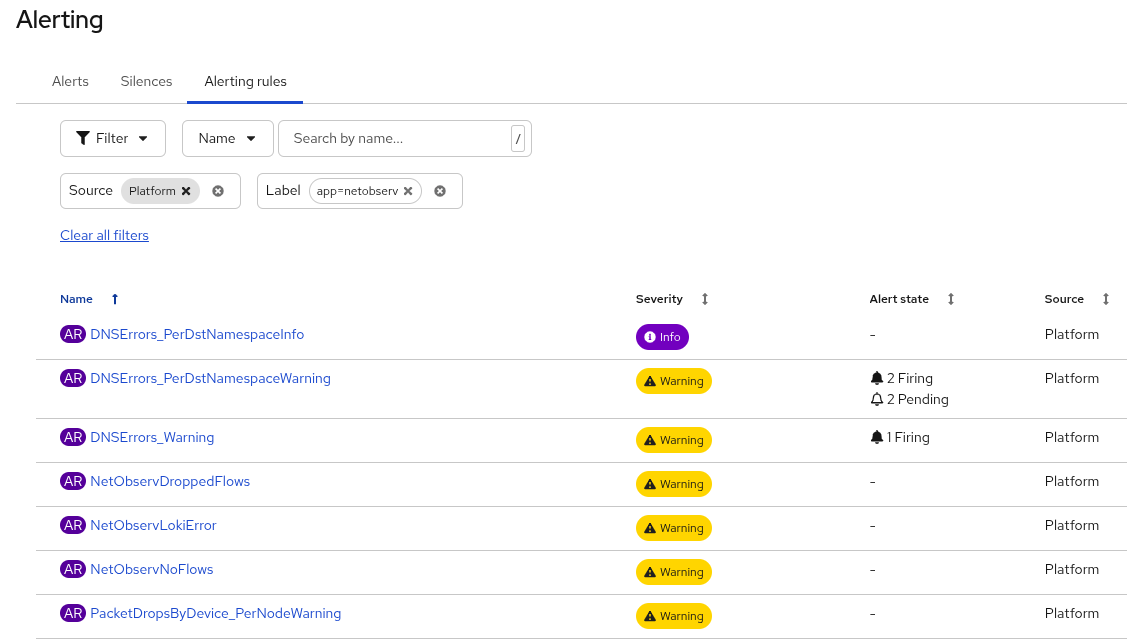
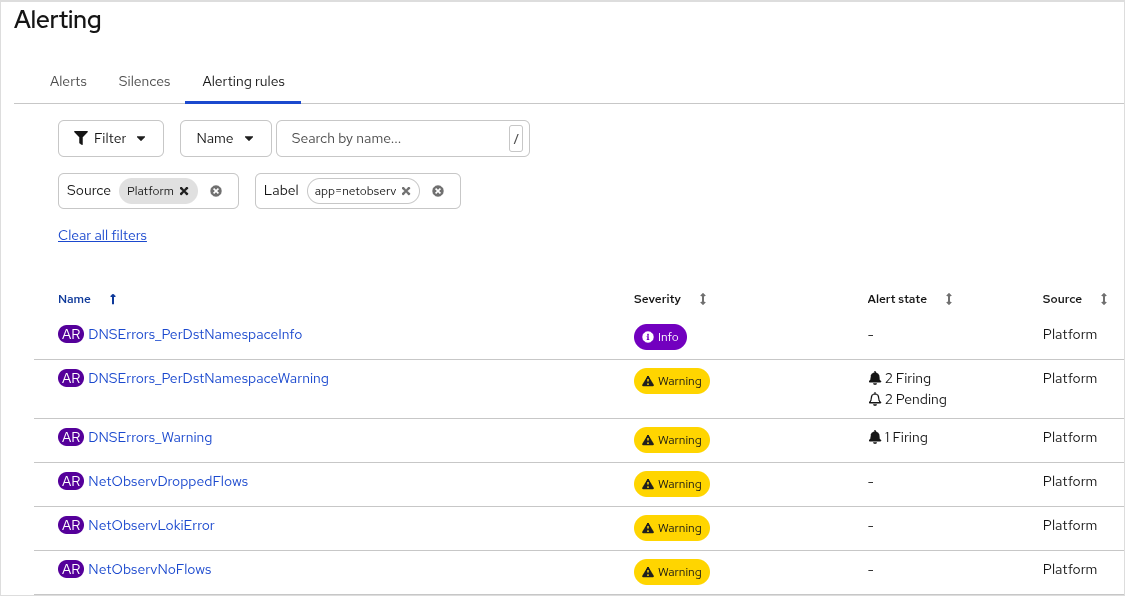
Update based on feedback. Update images and add borders.

Changed region(s): [[0.0, 0.0, 1.0, 1.0], [0.7778, 0.453, 0.84, 0.5134]]

diff --git a/content/posts/2025-10-28-whats-new-1-10/index.md b/content/posts/2025-10-28-whats-new-1-10/index.md
@@ -34,7 +34,7 @@ Figure 2: FlowCollector Setup - Step 2
 
 ### Step 3: Loki
 
-To store flow logs, you need Loki. Without it, there will not be a traffic flows table as only metrics will be stored.  The default Loki mode is **LokiStack** instead of **Monolithic**.
+To store flow logs, you need Loki. [Without Loki](https://docs.redhat.com/en/documentation/openshift_container_platform/4.20/html/network_observability/installing-network-observability-operators#network-observability-without-loki_network_observability), there will not be a traffic flows table as only metrics will be stored.  The default Loki mode is **LokiStack** instead of **Monolithic**.
 
 ![FlowCollector Setup - Step 3](flowcollector-p3.png)<br>
 Figure 3: FlowCollector Setup - Step 3
@@ -62,7 +62,7 @@ Figure 6: FlowMetric Setup - Step 1
 
 ## Improve Security with Network Policies
 
-To improve the security hygiene of your cluster, it is highly recommended that you apply a network policy to allow only the necessary traffic between Network Observability and other pods for both ingress and egress.  In this release, the network policies are created and enabled by default in step 2 of the FlowCollector Setup.
+To improve the security hygiene of your cluster, it is highly recommended that you apply a network policy to allow only the necessary traffic between Network Observability and other pods for both ingress and egress.  In this release, when the Container Network Interface (CNI) plugin is OVN-Kubernetes, the network policies are created and enabled by default as shown in step 2 of the FlowCollector Setup.
 
 If you use Loki or Kafka, it's recommended that you put these components in a different namespace for better isolation.  When using the FlowCollector wizard, it will automatically update the network policy accordingly.  Otherwise, you have to make sure the Network Observability network policy, located at **Networking > NetworkPolicies**, is allowed to communicate with Loki and/or Kafka.
 
@@ -96,7 +96,7 @@ Refresh the browser page and go to **Observe > Alerting**.  Click the **Alerting
 ![Alerting Rules](alerting_rules-dns.png)<br>
 Figure 7: Alerting Rules
 
-Here is the FlowCollector configuration if you want to see all the predefined alerts.  It must also enable **privileged** mode for PacketDrop.
+Here is the FlowCollector configuration if you want to see all the predefined alerts.  You must also enable **privileged** mode for PacketDrop.
 
 ```yaml
 spec:
@@ -111,13 +111,11 @@ spec:
       privileged: true
 ```
 
-Underneath the covers, it is creating a PrometheusRule object.  To see what that looks like, enter `oc get prometheusrules -n netobserv -o yaml`.  If you want to change some of the thresholds or the duration for these alerts, edit these rules with `oc edit prometheusrules -n netobserv`.  If you get really ambitious, you can even write your own custom alerts!
-
-See [Alerts in the NetObserv Operator](https://github.com/netobserv/network-observability-operator/blob/main/docs/Alerts.md) for more information on this feature.
+Underneath the covers, it creates a PrometheusRule object.  To see what that looks like, enter `oc get prometheusrules -n netobserv -o yaml`.  However, if you want to modify a predefined alert, you must [edit FlowCollector as described here](https://docs.redhat.com/en/documentation/openshift_container_platform/4.20/html/network_observability/network-observability-alerts_nw-observe-network-traffic#network-observability-configuring-predefined-alerts_network-observability-alerts).  If you get ambitious, you can also write your own custom alerts!  See [Alerts in the NetObserv Operator](https://github.com/netobserv/network-observability-operator/blob/main/docs/Alerts.md) for more information on this feature.
 
 ## Technology Preview: Network Health Dashboard
 
-The second Technology Preview is a network health dashboard.  Using the same environmental variable, EXPERIMENTAL_ALERTS_HEALTH, as Custom Alerts (see listing above), it also enables this feature.
+The second Technology Preview is a network health dashboard.  The same environmental variable, EXPERIMENTAL_ALERTS_HEALTH, also used for Custom Alerts (see listing above), enables this feature.
 
 Refresh the browser, and now there is a new menu panel at **Observe > Network Health** (Figure 8).
 
@@ -201,3 +199,5 @@ Figure 17: Network Observability CLI - Packets
 In Network Observability CLI, there were significant improvements in the user interface and ease of use. The UI was completely revised and supports the mouse.  Columns in the flow table and selection of graphs to display for metrics are customizable.  It is now able to display graphs and packet captures without resorting to external programs.
 
 In Network Observability, it is easier to create a FlowCollector and FlowMetric instance.  It is more secure with the use of network policies.  The custom alerts and Network Health Dashboard, while still in Technology Preview, are signs of things to come.  As we move beyond insights into analysis, give us feedback on this and other topics on the [discussion board](https://github.com/netobserv/network-observability-operator/discussions).
+
+_Special thanks to Joel Takvorian, Julien Pinsonneau, and Amogh Rameshappa Devapura for reviewing._
